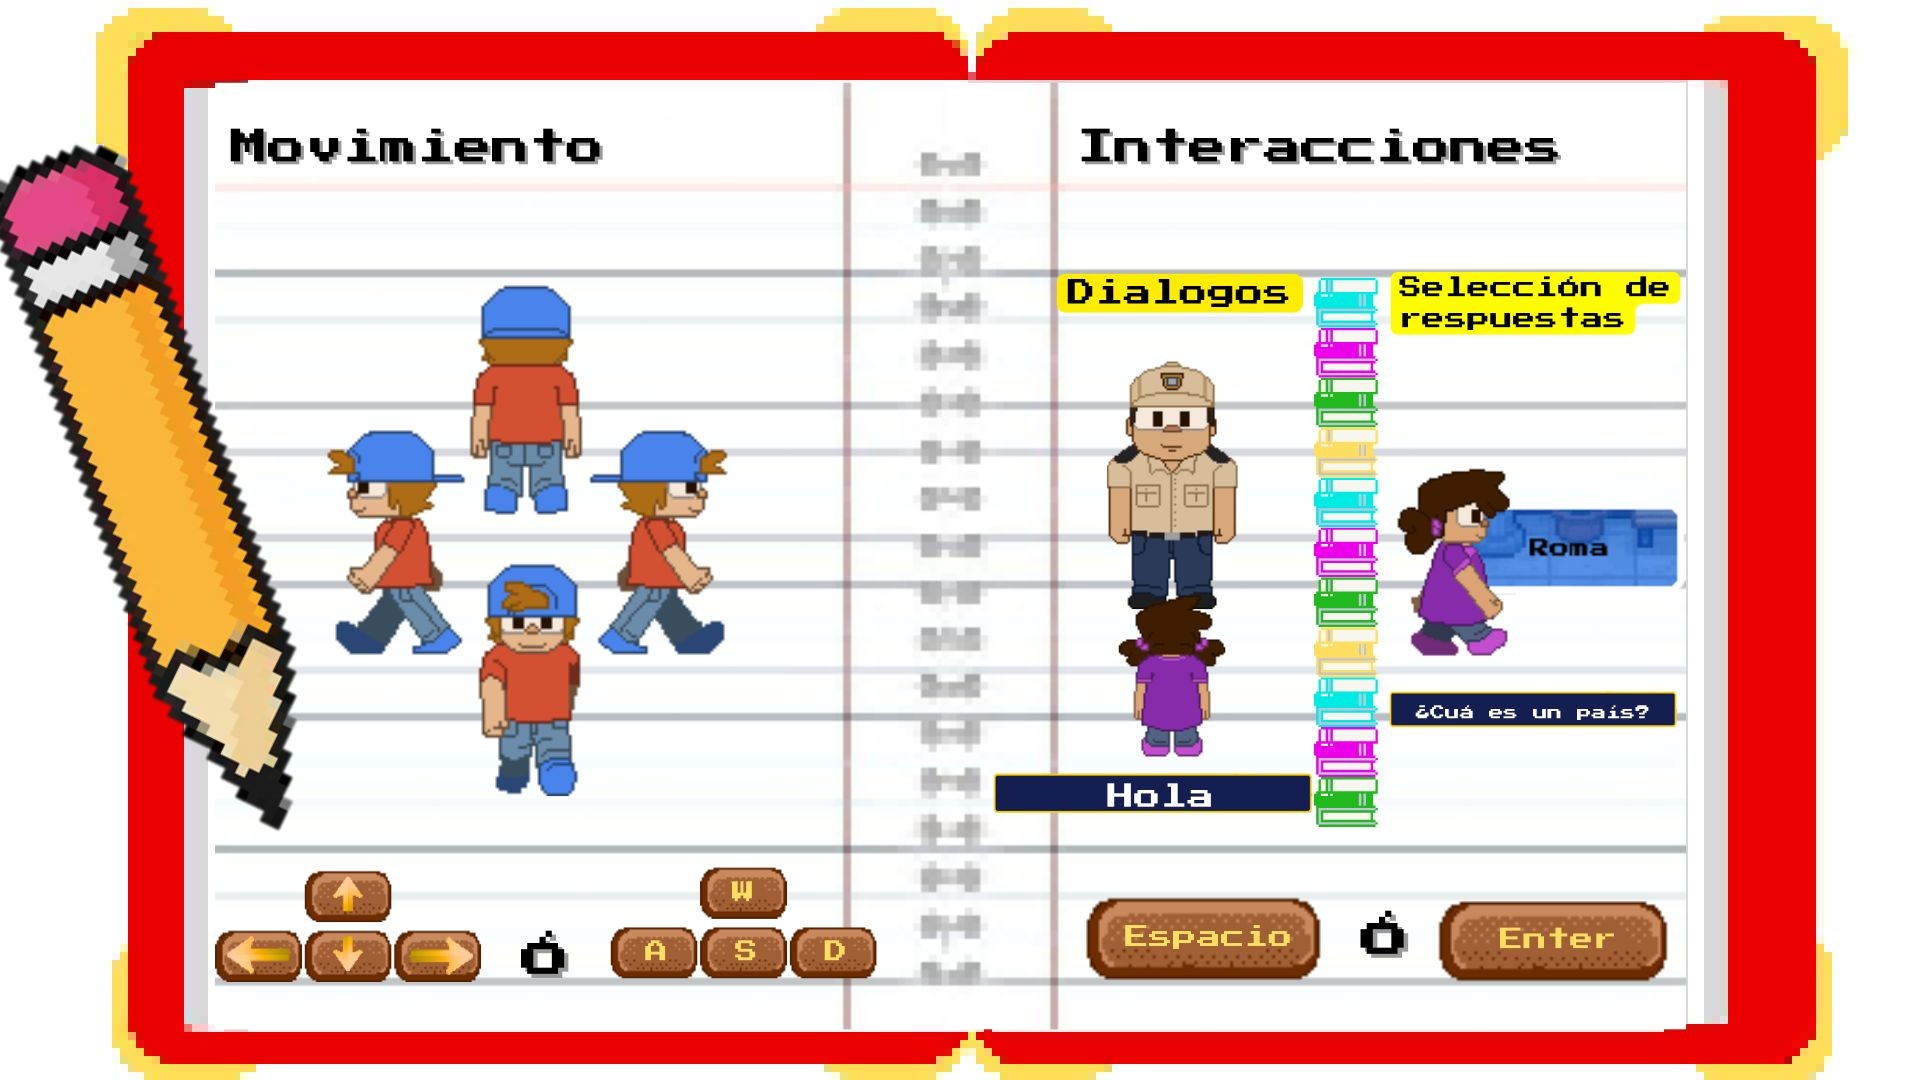
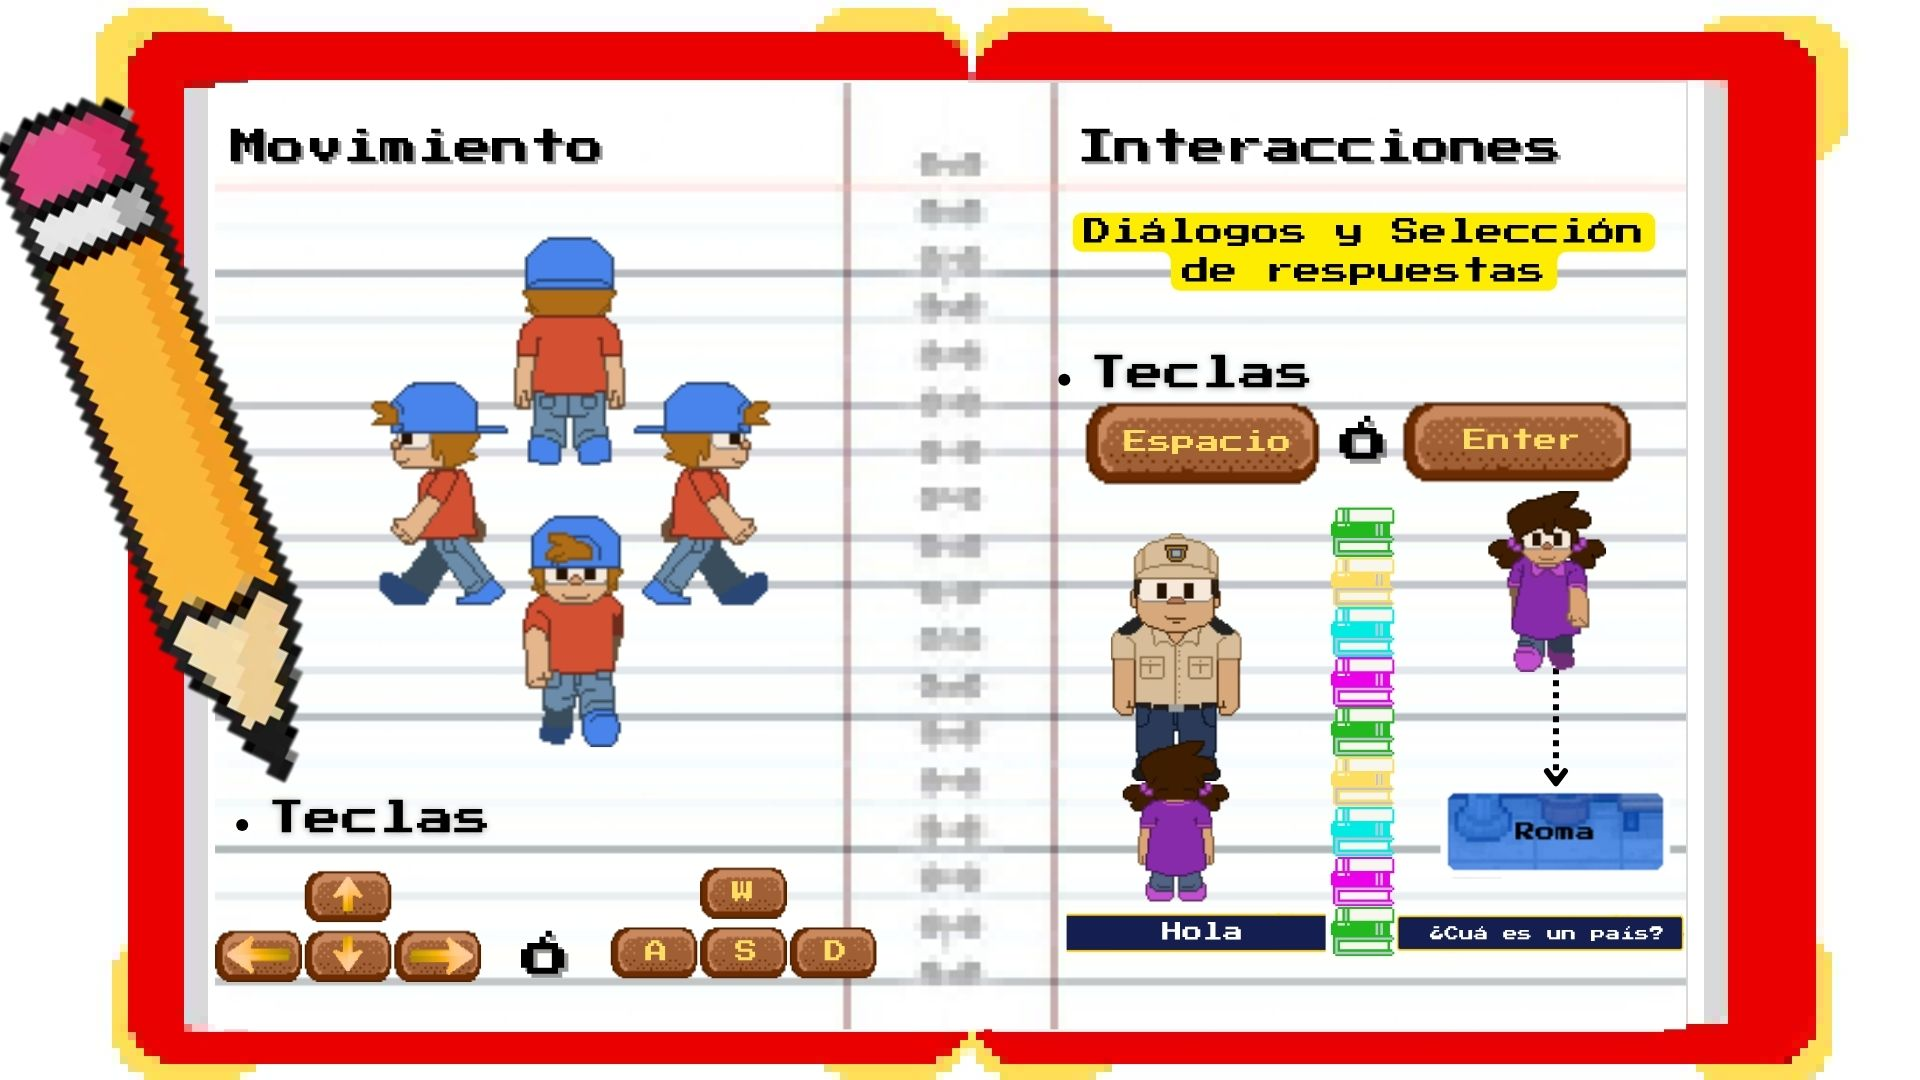
Modificación de imagen

Changed region(s): [[0.5, 0.1833, 0.875, 0.9167], [0.0, 0.0917, 0.4062, 0.7944]]

diff --git a/Levels/Level1F.py b/Levels/Level1F.py
@@ -11,7 +11,7 @@ from Interacciones.Controldeobjetos.corazones import LifeManager
 from Interacciones.FloorQuiz import FloorQuiz 
 
 # =================================================================
-# CLASE CONFETTI 
+# CLASE CONFETTI (SIN CAMBIOS)
 # =================================================================
 
 class Confetti:
@@ -68,7 +68,7 @@ class Confetti:
             pygame.draw.circle(surface, color, (int(x), int(y)), size)
 
 # =================================================================
-# CLASE LEVEL 1 
+# CLASE LEVEL 1 (MODIFICADA)
 # =================================================================
 
 class Level1:
@@ -256,9 +256,9 @@ class Level1:
                     return "menu"
             return None
 
-        # Lógica para la pantalla de control (MODIFICADO)
+        # Lógica para la pantalla de control (MODIFICADO para incluir K_RETURN)
         if self.state == "controls_screen" and not self.is_fading:
-            if event.type == pygame.KEYDOWN and (event.key == pygame.K_SPACE or event.key == pygame.K_ESCAPE):
+            if event.type == pygame.KEYDOWN and (event.key == pygame.K_SPACE or event.key == pygame.K_ESCAPE or event.key == pygame.K_RETURN):
                 # Iniciar el Fade Out en lugar de cambiar de estado inmediatamente
                 self.is_fading = True
                 self.target_state = "game"
@@ -270,6 +270,7 @@ class Level1:
                 return None
             return None 
 
+        # Lógica para interactuar con el diálogo/avanzar el texto (MODIFICADO para incluir K_RETURN)
         if event.type == pygame.KEYDOWN and (event.key == pygame.K_SPACE or event.key == pygame.K_RETURN):
             if self.dialogo_active and self.typewriter:
                 if not self.typewriter.finished():
@@ -318,7 +319,7 @@ class Level1:
             
             elif result == "finished":
                 self.quiz_timer.pause() 
-                    
+                     
         return None
 
     def update(self):
@@ -348,7 +349,7 @@ class Level1:
                         self.is_fading = True
             
             elif self.state == "game" and self.target_state is None:
-                 # Fade In para la entrada del nivel (de 255 a 0)
+                     # Fade In para la entrada del nivel (de 255 a 0)
                 self.fade_alpha = max(0, self.fade_alpha - self.fade_in_speed)
                 if self.fade_alpha == 0:
                     self.is_fading = False
@@ -375,7 +376,8 @@ class Level1:
                     if self.win_music and not self.win_music_played:
                         self.win_music.play()
                         self.win_music_played = True
-            elif self.player.rect.colliderect(self.guardia_collision_rect.inflate(20,20)) and keys[pygame.K_SPACE] and not self.guard_interacted:
+            # Lógica para interactuar con el guardia (MODIFICADO para incluir K_RETURN)
+            elif self.player.rect.colliderect(self.guardia_collision_rect.inflate(20,20)) and (keys[pygame.K_SPACE] or keys[pygame.K_RETURN]) and not self.guard_interacted:
                 self.state = "dialog"
                 self.dialogo_active = True
                 self.typewriter = TypewriterText(self.dialogo_text, self.font_dialog, (255,255,255), speed=25) 
@@ -519,7 +521,7 @@ class Level1:
                         self.screen, 
                         text_to_render_title, 
                         self.font_control_title, 
-                        (0, 0, 0),         # Color del texto: Negro
+                        (0, 0, 0),       # Color del texto: Negro
                         (255, 128, 0),     # Color del borde: NARANJA
                         (center_x_title, center_y_title),
                         border_size=4 # Borde un poco más grande para el título
@@ -531,7 +533,7 @@ class Level1:
                 # Añadir texto "Presiona ESPACIO..." con borde NARANJA
                 font_to_use = self.font_dialog if hasattr(self, 'font_dialog') else self.font
                 try:
-                    text_to_render = "Presiona ESPACIO para comenzar el Nivel 1"
+                    text_to_render = "Presiona ESPACIO o ENTER para comenzar el Nivel 1"
                     center_x = self.size[0] // 2
                     center_y = self.size[1] - 30
                     
@@ -539,7 +541,7 @@ class Level1:
                         self.screen, 
                         text_to_render, 
                         font_to_use, 
-                        (0, 0, 0),         # Color del texto: Negro
+                        (0, 0, 0),       # Color del texto: Negro
                         (255, 128, 0),     # Color del borde: NARANJA
                         (center_x, center_y),
                         border_size=2
@@ -615,7 +617,7 @@ class Level1:
                     self.screen.blit(self.dialog_box_img, self.dialog_box_rect.topleft)
                     
                     pygame.draw.rect(self.screen, (255, 200, 0), self.dialog_box_rect, 
-                                     width=5, border_radius=20)
+                                            width=5, border_radius=20)
                     
                     self.typewriter.draw(self.screen, (self.dialog_box_rect.x + 20, self.dialog_box_rect.y + 35))
 
@@ -684,28 +686,5 @@ class Level1:
                 try:
                     text1 = font_title_to_use.render("GAME OVER", True, (255, 0, 0))
                     self.screen.blit(text1, text1.get_rect(center=(self.size[0] // 2, self.size[1] // 2 - 40)))
-                except Exception:
-                    pass
-            
-            font_to_use = self.font_dialog if hasattr(self, 'font_dialog') else self.font
-            try:
-                text_to_render = "Presiona R para reiniciar o ESC para ir al menú"
-                center_x = self.size[0] // 2
-                center_y = self.size[1] - 50
-                
-                self._draw_text_with_border(
-                    self.screen, 
-                    text_to_render, 
-                    font_to_use, 
-                    (255, 255, 255), 
-                    (255, 140, 0), 
-                    (center_x, center_y),
-                    border_size=2 
-                )
-
-            except Exception:
-                try:
-                    text2 = font_to_use.render("Presiona R para reiniciar o ESC para ir al menú", True, (255, 255, 255))
-                    self.screen.blit(text2, text2.get_rect(center=(self.size[0] // 2, self.size[1] - 50)))
                 except Exception:
                     pass
